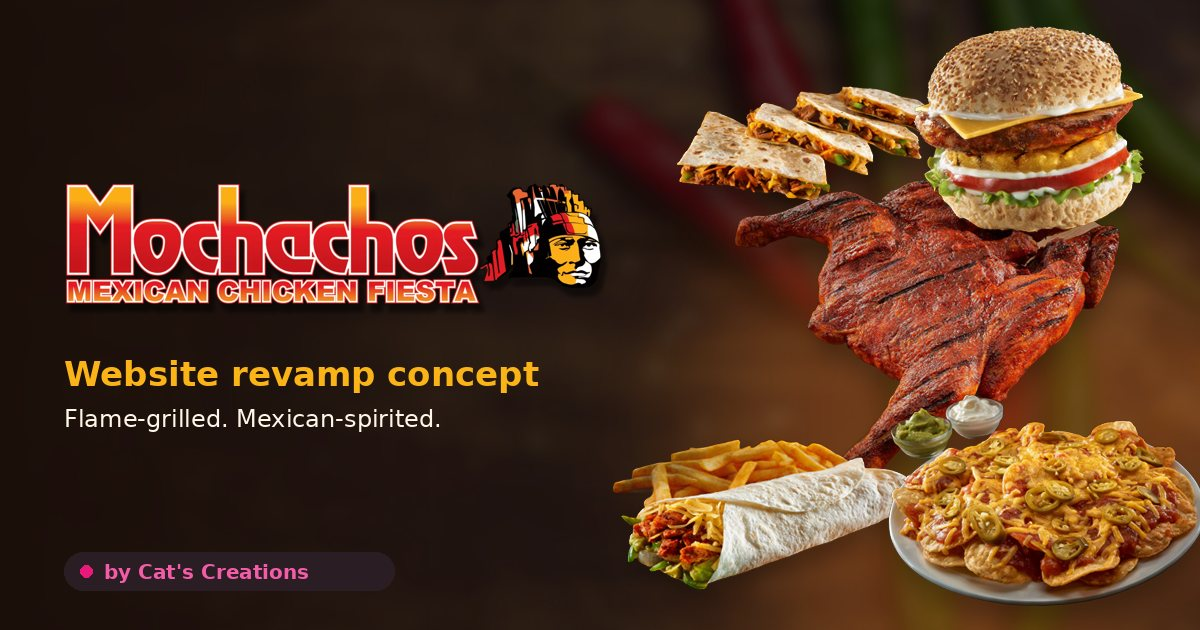
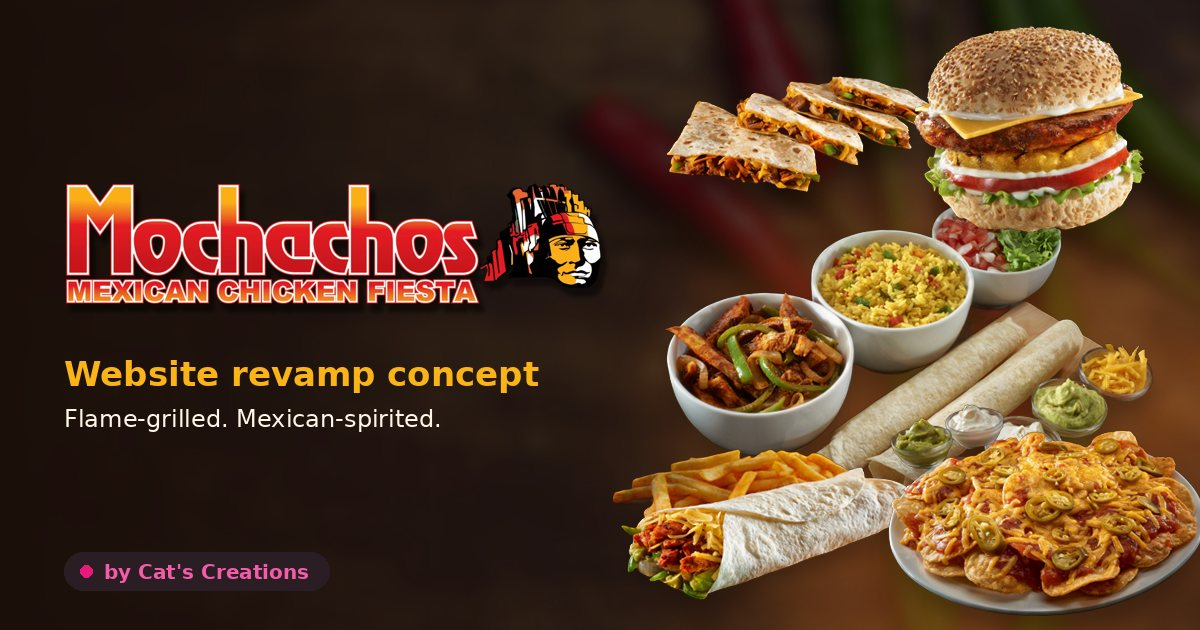
Mochachos concept: fajita spread replaces the chicken as the hero centrepiece
Swaps the floating Pollo Pueblo cut-out for the chicken fajita spread
(tortillas, rice, salsa and dips), linked to Mexican Meals, and updates
the share card to match.

Claude-Session: https://claude.ai/code/session_01242rcU6kdTn92BV3UcUBLx

Changed region(s): [[0.4933, 0.1206, 1.0, 0.9952]]

diff --git a/concepts/mochachos/index.html b/concepts/mochachos/index.html
@@ -631,7 +631,7 @@
       <div class="hero-art" id="heroArt"><div class="stage">
         <a href="#menu" class="float-item" data-cat="Mexican Meals" data-depth="0.5" style="--x:2%;--y:4%;--w:40%;--z:1;--d:0.35s;--t:7s;--r:-8deg"><img src="img/float-quesadilla.webp" width="560" height="373" alt="Rump quesadilla"><span class="float-label">Rump Quesadilla</span></a>
         <a href="#menu" class="float-item" data-cat="Burgers" data-depth="1.3" style="--x:58%;--y:0%;--w:40%;--z:4;--d:0.5s;--t:6s;--r:6deg"><img src="img/float-burger.webp" width="560" height="417" alt="Chicken, cheese and pineapple burger"><span class="float-label">Chicken, Cheese &amp; Pine</span></a>
-        <a href="#menu" class="float-item" data-cat="Pollo Pueblo" data-depth="0.9" style="--x:12%;--y:24%;--w:74%;--z:3;--d:0.15s;--t:8s;--r:-2deg"><img src="img/float-pollo.webp" width="900" height="606" alt="Flame-grilled Pollo Pueblo chicken" fetchpriority="high"><span class="float-label">Pollo Pueblo</span></a>
+        <a href="#menu" class="float-item" data-cat="Mexican Meals" data-depth="0.9" style="--x:13%;--y:26%;--w:72%;--z:3;--d:0.15s;--t:8s;--r:-3deg"><img src="img/float-fajita.webp" width="900" height="617" alt="Chicken fajita spread with tortillas, rice, salsa and dips" fetchpriority="high"><span class="float-label">Chicken Fajita</span></a>
         <a href="#menu" class="float-item" data-cat="Sides" data-depth="1.6" style="--x:76%;--y:46%;--w:26%;--z:5;--d:0.8s;--t:5.5s;--r:10deg"><img src="img/float-chips.webp" width="420" height="413" alt="Basket of chips"><span class="float-label">Chips</span></a>
         <a href="#menu" class="float-item" data-cat="Mexican Meals" data-depth="1.4" style="--x:-4%;--y:64%;--w:50%;--z:4;--d:0.65s;--t:6.5s;--r:-6deg"><img src="img/float-burrito.webp" width="640" height="351" alt="Chicken burrito with chips"><span class="float-label">Chicken Burrito</span></a>
         <a href="#menu" class="float-item" data-cat="Mexican Meals" data-depth="0.7" style="--x:50%;--y:66%;--w:46%;--z:2;--d:0.95s;--t:7.5s;--r:4deg"><img src="img/float-nachos.webp" width="600" height="410" alt="Classic nachos"><span class="float-label">Classic Nachos</span></a>
